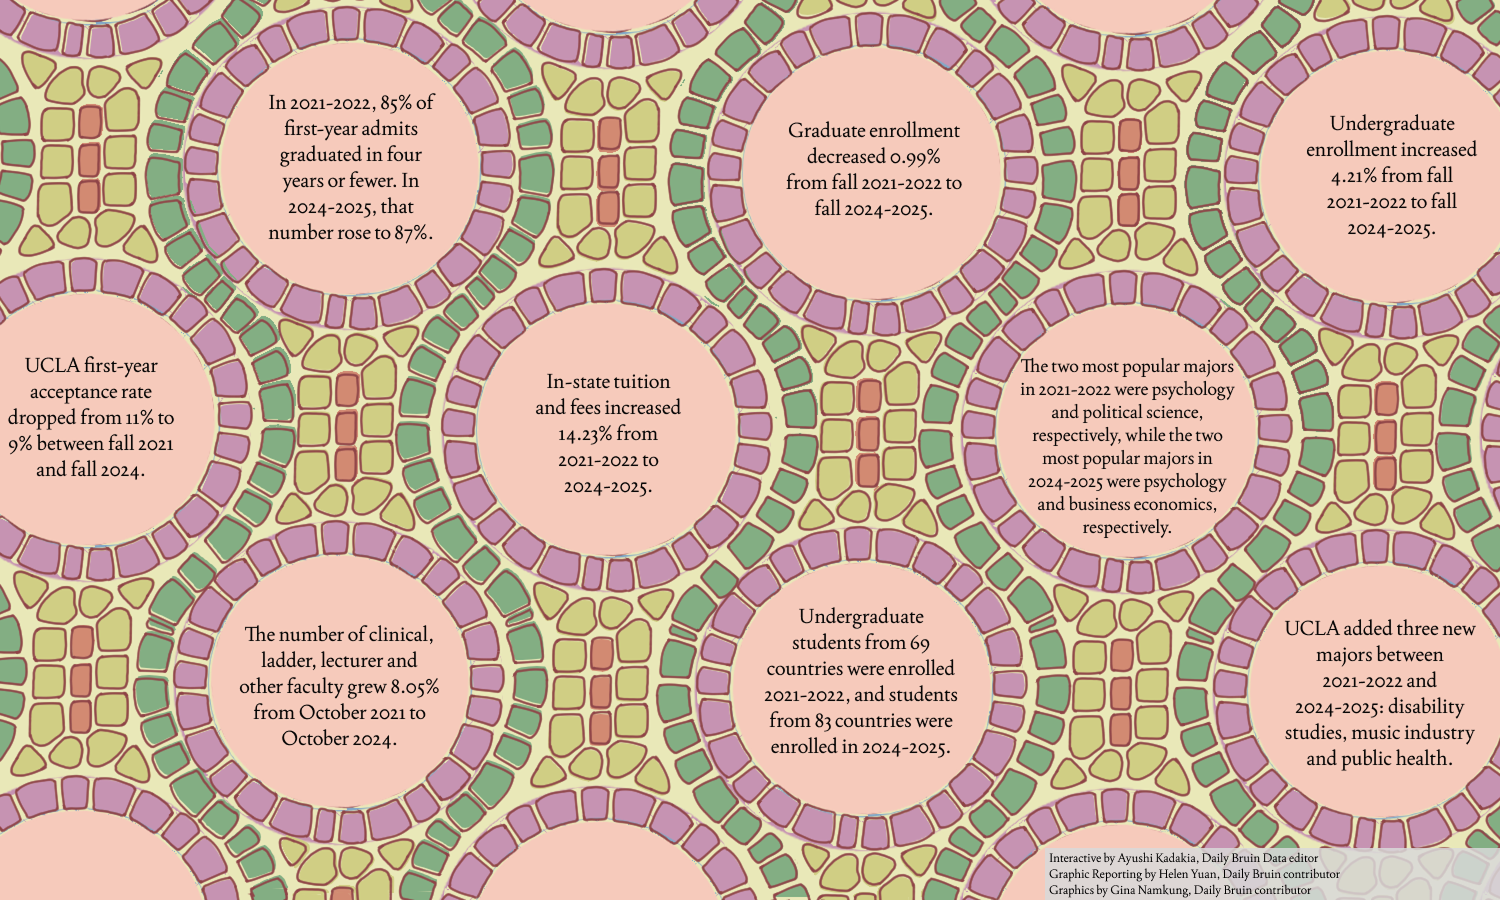
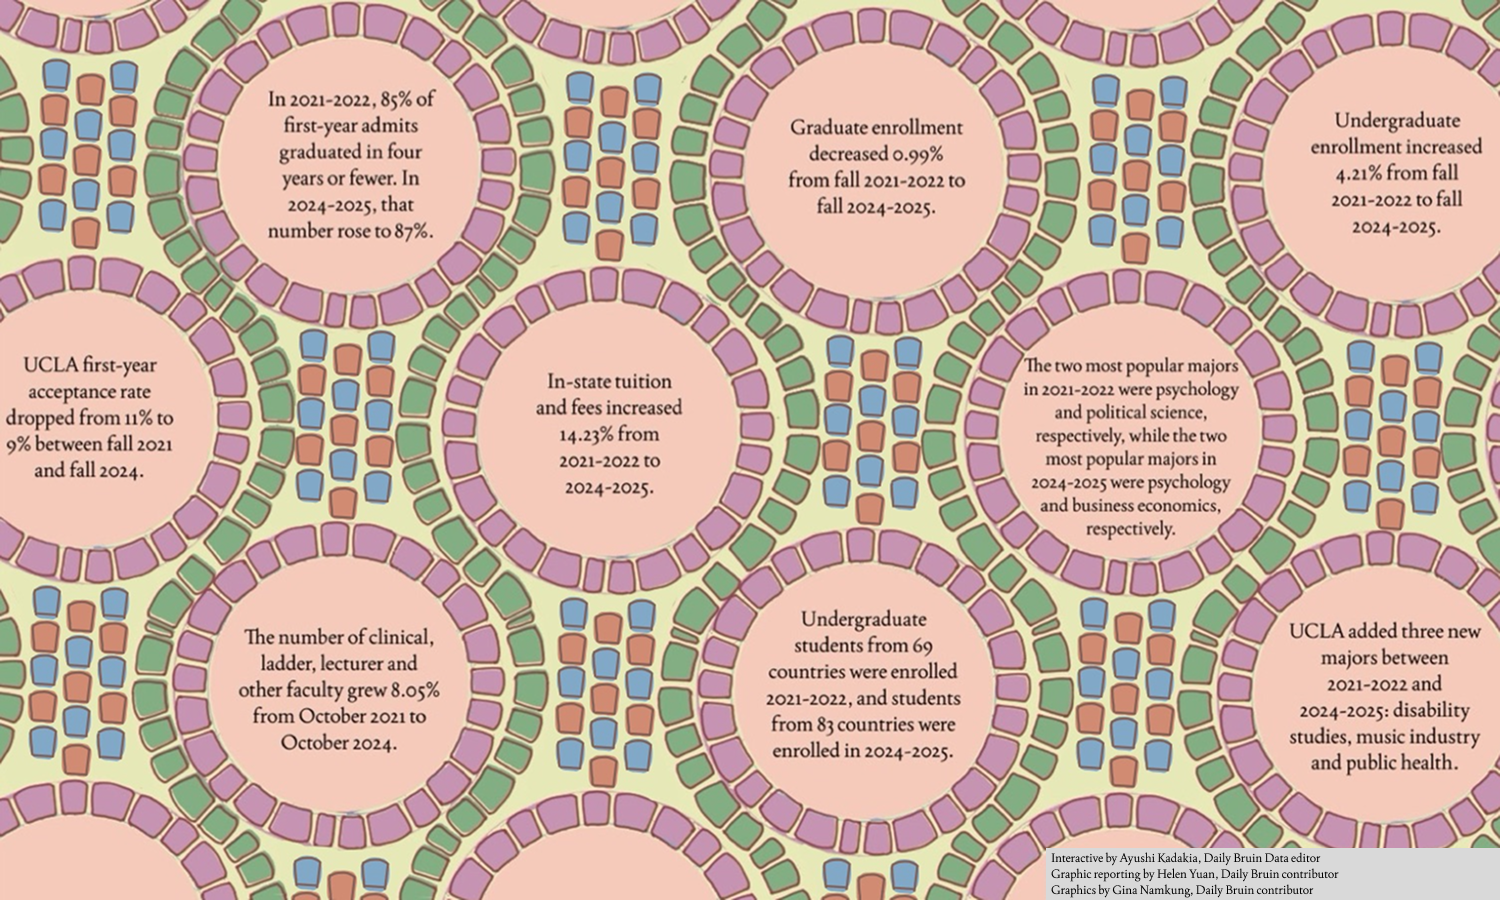
fixed data interactive

diff --git a/src/components/mosaic.js b/src/components/mosaic.js
@@ -2,8 +2,39 @@ import React, { useEffect, useRef, useState } from "react";
 import * as joint from "jointjs";
 import styled from "styled-components";
 import mosaicImg from "../images/mosaic.png";
-
 const V = joint.V;
+
+const PageContainer = styled.div`
+  background-position: center;
+  min-height: 100vh;
+  display: flex;
+  flex-direction: column;
+  align-items: center;
+  padding: 40px 125px;
+  width: 80%;
+`;
+
+const ContentContainer = styled.div`
+  background-color: #f1e7d3;
+  max-width: 1300px;
+  margin: 0 auto;
+  padding: 50px;
+  width: 85%;
+`;
+
+const Header = styled.h1`
+  text-align: center;
+  color: #826324;
+  font-size: 2rem;
+  font-family: "Joan", serif;
+`;
+
+const SubHeader = styled.h2`
+  text-align: center;
+  color: #826324;
+  font-size: 1.2rem;
+  font-family: "Joan", serif;
+`;
 
 const Container = styled.div`
   position: relative;
@@ -11,12 +42,18 @@ const Container = styled.div`
   justify-content: center;
   align-items: center;
   width: 100%;
+  z-index: 10;
+  overflow: visible;
+  justify-content: center;
 `;
 
 const MosaicContainer = styled.div`
-  width: 100%;
-  max-width: 975px;
+  width: 125%;
+  max-width: 1300px;
   margin: 0 auto;
+  position: relative;
+  z-index: 10;
+  overflow: visible;
 `;
 
 export default function Mosaic() {
@@ -107,11 +144,11 @@ export default function Mosaic() {
     );
 
     const GRID = 10;
-    const PADDING = 75;
+    const PADDING = 20;
     const TAB_RATIO = 0.15;
     const IMAGE_ID = "puzzle-image";
     const ROWS = 3;
-    const COLS = 3;
+    const COLS = 5;
 
     const snappedWidth =
       Math.floor((containerWidth - 2 * PADDING) / (COLS * GRID)) * COLS * GRID;
@@ -131,10 +168,13 @@ export default function Mosaic() {
       clickThreshold: 5,
       background: { color: "transparent" },
       cellViewNamespace: joint.shapes,
+      z: 10,
+      overflow: "visible",
     });
 
     paper.on("cell:pointerdown", (pieceView) => {
       pieceView.model.toFront();
+      pieceView.model.set("z", 11);
       pieceView.highlight("polygon");
     });
     paper.on("cell:pointerup", (pieceView) => {
@@ -165,6 +205,7 @@ export default function Mosaic() {
               width: pieceSize,
               height: pieceSize,
             },
+            z: 10,
             tabSize: TAB_RATIO * pieceSize,
             attrs: {
               polygon: {
@@ -204,10 +245,16 @@ export default function Mosaic() {
   }, [containerWidth]);
 
   return (
-    <Container>
-      <MosaicContainer>
-        <div ref={paperRef} id="paper" style={{ margin: "0 auto" }} />
-      </MosaicContainer>
-    </Container>
+    <PageContainer>
+      <ContentContainer>
+        <Header>Then vs. Now: Changes from 2021-2022 to 2024-2025</Header>
+        <SubHeader>Drag and drop the pieces to complete the puzzle!</SubHeader>
+        <Container>
+          <MosaicContainer>
+            <div ref={paperRef} id="paper" style={{ margin: "0 auto" }} />
+          </MosaicContainer>
+        </Container>
+      </ContentContainer>
+    </PageContainer>
   );
 }

diff --git a/src/components/Letter.js b/src/components/Letter.js
@@ -12,7 +12,8 @@ const Container = styled.div`
   padding-bottom: 40px;
   margin-left: 14.5%;
 
-  @media (max-width: 768px) { /* Grouping smaller screens */
+  @media (max-width: 768px) {
+    /* Grouping smaller screens */
     width: 65%;
     margin-left: 17.5%;
   }
@@ -88,10 +89,13 @@ const StyledLink = styled.a`
   color: #8b6b4a;
   text-decoration: underline;
   font-family: "Joan", serif;
-
   &:hover {
     text-decoration: none;
   }
+`;
+
+const Spacer = styled.div`
+  height: ${(props) => Math.max(props.$scale * 60, 60)}px;
 `;
 
 const Letter = ({ id }) => {
@@ -247,6 +251,7 @@ const Letter = ({ id }) => {
           presenters, photojournalists, editors, artists and videographers will
           keep telling those stories.
         </Paragraph>
+        <Spacer $scale={scale} />
         <Signature $scale={scale}>
           Yours faithfully,
           <Name $scale={scale}>Dylan Winward | Editor in chief</Name>
